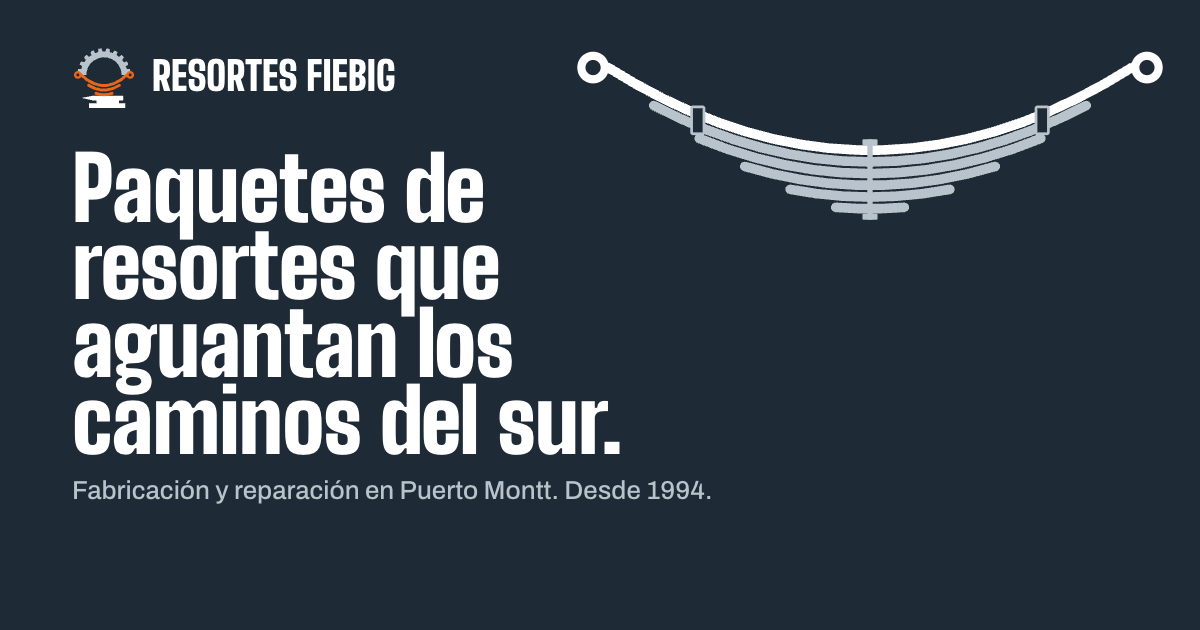
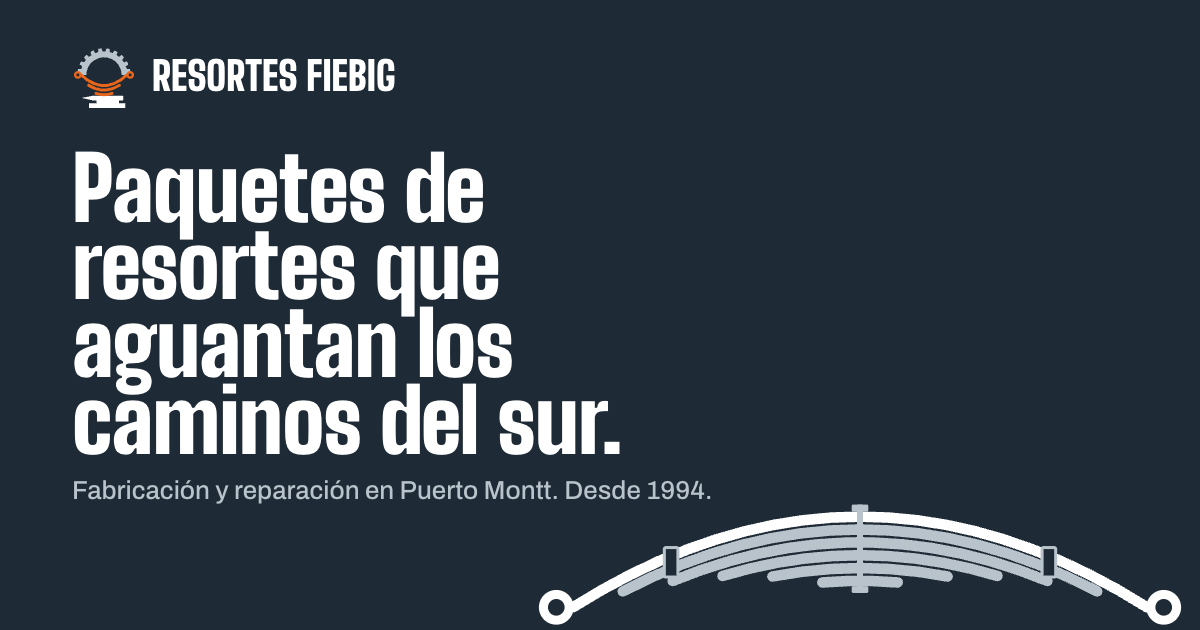
feat(spring): vuelve a la orientación original, arco hacia arriba y ojos abajo
Deshace el giro del paquete en hero, diagrama y og.png; el logo nuevo
queda igual. Resorte del hero otra vez a todo el ancho.

Changed region(s): [[0.4317, 0.7841, 0.9867, 0.9952], [0.4625, 0.0905, 0.9867, 0.3619]]

diff --git a/index.html b/index.html
@@ -166,32 +166,32 @@
             <!-- spring:hero:start -->
             <svg
               class="spring"
-              viewBox="0 0 900 270"
+              viewBox="0 0 900 190"
               preserveAspectRatio="xMidYMax meet"
               data-animate="hero"
               aria-hidden="true"
               focusable="false"
             >
               <g class="spring__leaves">
-                <path class="spring__leaf spring__leaf--main" data-leaf="0" d="M70.0 40.0 Q450 280.0 830.0 40.0" />
-                <path class="spring__leaf" data-leaf="1" d="M136.0 95.1 Q450 258.9 764.0 95.1" />
-                <path class="spring__leaf" data-leaf="2" d="M202.0 142.9 Q450 245.1 698.0 142.9" />
-                <path class="spring__leaf" data-leaf="3" d="M268.0 183.5 Q450 238.5 632.0 183.5" />
-                <path class="spring__leaf" data-leaf="4" d="M334.0 216.8 Q450 239.2 566.0 216.8" />
-                <path class="spring__leaf" data-leaf="5" d="M400.0 242.9 Q450 247.1 500.0 242.9" />
+                <path class="spring__leaf spring__leaf--main" data-leaf="0" d="M70.0 150.0 Q450 -90.0 830.0 150.0" />
+                <path class="spring__leaf" data-leaf="1" d="M136.0 128.9 Q450 -34.9 764.0 128.9" />
+                <path class="spring__leaf" data-leaf="2" d="M202.0 115.1 Q450 12.9 698.0 115.1" />
+                <path class="spring__leaf" data-leaf="3" d="M268.0 108.5 Q450 53.5 632.0 108.5" />
+                <path class="spring__leaf" data-leaf="4" d="M334.0 109.2 Q450 86.8 566.0 109.2" />
+                <path class="spring__leaf" data-leaf="5" d="M400.0 117.1 Q450 112.9 500.0 117.1" />
               </g>
               <g class="spring__eyes">
-                <circle class="spring__eye" cx="48" cy="40" r="17" />
-                <circle class="spring__eye" cx="852" cy="40" r="17" />
+                <circle class="spring__eye" cx="48" cy="150" r="17" />
+                <circle class="spring__eye" cx="852" cy="150" r="17" />
               </g>
               <g class="spring__bolt-group">
-                <rect class="spring__bolt" x="446" y="144" width="8" height="117" rx="2" data-bolt="shaft" />
-                <rect class="spring__bolt" x="439" y="144" width="22" height="9" rx="2" data-bolt="head" />
-                <rect class="spring__bolt" x="439" y="252" width="22" height="9" rx="2" data-bolt="nut" />
+                <rect class="spring__bolt" x="446" y="14" width="8" height="117" rx="2" data-bolt="shaft" />
+                <rect class="spring__bolt" x="439" y="14" width="22" height="9" rx="2" data-bolt="head" />
+                <rect class="spring__bolt" x="439" y="122" width="22" height="9" rx="2" data-bolt="nut" />
               </g>
               <g class="spring__clips">
-                <rect class="spring__clip" x="191" y="97.1" width="18" height="39" rx="2" data-clip="200" />
-                <rect class="spring__clip" x="691" y="97.1" width="18" height="39" rx="2" data-clip="700" />
+                <rect class="spring__clip" x="191" y="70.9" width="18" height="39" rx="2" data-clip="200" />
+                <rect class="spring__clip" x="691" y="70.9" width="18" height="39" rx="2" data-clip="700" />
               </g>
             </svg>
             <!-- spring:hero:end -->
@@ -211,55 +211,55 @@
 
           <figure class="diagram">
             <!-- spring:diagram:start -->
-            <svg class="spring spring--diagram" viewBox="0 -45 900 315" role="img" aria-labelledby="diagram-title">
+            <svg class="spring spring--diagram" viewBox="0 -40 900 280" role="img" aria-labelledby="diagram-title">
               <title id="diagram-title">
                 Partes de un paquete de resortes: hoja madre, ojos, hojas graduadas, perno centro y abrazaderas
               </title>
               <g class="spring__leaves">
-                <path class="spring__leaf spring__leaf--main" data-leaf="0" d="M70.0 40.0 Q450 280.0 830.0 40.0" />
-                <path class="spring__leaf" data-leaf="1" d="M136.0 95.1 Q450 258.9 764.0 95.1" />
-                <path class="spring__leaf" data-leaf="2" d="M202.0 142.9 Q450 245.1 698.0 142.9" />
-                <path class="spring__leaf" data-leaf="3" d="M268.0 183.5 Q450 238.5 632.0 183.5" />
-                <path class="spring__leaf" data-leaf="4" d="M334.0 216.8 Q450 239.2 566.0 216.8" />
-                <path class="spring__leaf" data-leaf="5" d="M400.0 242.9 Q450 247.1 500.0 242.9" />
+                <path class="spring__leaf spring__leaf--main" data-leaf="0" d="M70.0 150.0 Q450 -90.0 830.0 150.0" />
+                <path class="spring__leaf" data-leaf="1" d="M136.0 128.9 Q450 -34.9 764.0 128.9" />
+                <path class="spring__leaf" data-leaf="2" d="M202.0 115.1 Q450 12.9 698.0 115.1" />
+                <path class="spring__leaf" data-leaf="3" d="M268.0 108.5 Q450 53.5 632.0 108.5" />
+                <path class="spring__leaf" data-leaf="4" d="M334.0 109.2 Q450 86.8 566.0 109.2" />
+                <path class="spring__leaf" data-leaf="5" d="M400.0 117.1 Q450 112.9 500.0 117.1" />
               </g>
               <g class="spring__eyes">
-                <circle class="spring__eye" cx="48" cy="40" r="17" />
-                <circle class="spring__eye" cx="852" cy="40" r="17" />
+                <circle class="spring__eye" cx="48" cy="150" r="17" />
+                <circle class="spring__eye" cx="852" cy="150" r="17" />
               </g>
               <g class="spring__bolt-group">
-                <rect class="spring__bolt" x="446" y="144" width="8" height="117" rx="2" data-bolt="shaft" />
-                <rect class="spring__bolt" x="439" y="144" width="22" height="9" rx="2" data-bolt="head" />
-                <rect class="spring__bolt" x="439" y="252" width="22" height="9" rx="2" data-bolt="nut" />
+                <rect class="spring__bolt" x="446" y="14" width="8" height="117" rx="2" data-bolt="shaft" />
+                <rect class="spring__bolt" x="439" y="14" width="22" height="9" rx="2" data-bolt="head" />
+                <rect class="spring__bolt" x="439" y="122" width="22" height="9" rx="2" data-bolt="nut" />
               </g>
               <g class="spring__clips">
-                <rect class="spring__clip" x="191" y="97.1" width="18" height="39" rx="2" data-clip="200" />
-                <rect class="spring__clip" x="691" y="97.1" width="18" height="39" rx="2" data-clip="700" />
+                <rect class="spring__clip" x="191" y="70.9" width="18" height="39" rx="2" data-clip="200" />
+                <rect class="spring__clip" x="691" y="70.9" width="18" height="39" rx="2" data-clip="700" />
               </g>
               <g class="spring__callout">
-                <line x1="300" y1="134.3" x2="300" y2="58" />
-                <circle cx="300" cy="58" r="15" />
-                <text x="300" y="58" dy="0.36em" text-anchor="middle">1</text>
+                <line x1="300" y1="41.7" x2="300" y2="-12" />
+                <circle cx="300" cy="-12" r="15" />
+                <text x="300" y="-12" dy="0.36em" text-anchor="middle">1</text>
               </g>
               <g class="spring__callout">
-                <line x1="48" y1="17" x2="48" y2="-22" />
-                <circle cx="48" cy="-22" r="15" />
-                <text x="48" y="-22" dy="0.36em" text-anchor="middle">2</text>
+                <line x1="48" y1="173" x2="48" y2="215" />
+                <circle cx="48" cy="215" r="15" />
+                <text x="48" y="215" dy="0.36em" text-anchor="middle">2</text>
               </g>
               <g class="spring__callout">
-                <line x1="636" y1="183.5" x2="690" y2="250" />
-                <circle cx="690" cy="250" r="15" />
-                <text x="690" y="250" dy="0.36em" text-anchor="middle">3</text>
+                <line x1="636" y1="108.5" x2="690" y2="200" />
+                <circle cx="690" cy="200" r="15" />
+                <text x="690" y="200" dy="0.36em" text-anchor="middle">3</text>
               </g>
               <g class="spring__callout">
-                <line x1="450" y1="142" x2="450" y2="78" />
-                <circle cx="450" cy="78" r="15" />
-                <text x="450" y="78" dy="0.36em" text-anchor="middle">4</text>
+                <line x1="450" y1="12" x2="450" y2="-12" />
+                <circle cx="450" cy="-12" r="15" />
+                <text x="450" y="-12" dy="0.36em" text-anchor="middle">4</text>
               </g>
               <g class="spring__callout">
-                <line x1="711" y1="116.6" x2="800" y2="200" />
-                <circle cx="800" cy="200" r="15" />
-                <text x="800" y="200" dy="0.36em" text-anchor="middle">5</text>
+                <line x1="711" y1="90.4" x2="800" y2="185" />
+                <circle cx="800" cy="185" r="15" />
+                <text x="800" y="185" dy="0.36em" text-anchor="middle">5</text>
               </g>
             </svg>
             <!-- spring:diagram:end -->

diff --git a/js/spring.js b/js/spring.js
@@ -1,20 +1,15 @@
 // Parametric leaf-spring pack. Shared by the browser (hero animation) and by
 // scripts/build-spring.js (static markup baked into index.html).
-//
-// Drawn as mounted on a truck and as in the original Fiebig logo: eyes up at
-// the ends, the main leaf on top hanging down to the centre, and the shorter
-// leaves stacked below it towards the axle seat.
 (function (root) {
   const WIDTH = 900;
-  const HEIGHT = 270;
   const CENTER = WIDTH / 2;
-  const EYE_Y = 40; // y of the main leaf ends (eyes), top of the pack
+  const EYE_Y = 150; // y of the main leaf ends (eyes)
   const MAIN_X0 = 70; // main leaf start x
   const LEAVES = 6;
   const STEP_X = 66; // each leaf is shorter by this on each side
   const STEP_Y = 17; // vertical stacking distance
   const THICKNESS = 14;
-  const REST_SAG = 120; // eye-to-vertex drop at rest
+  const REST_SAG = 120; // vertex-to-eye height at rest
   const CLIP_X = [200, WIDTH - 200];
   const EYE_R = 17;
 
@@ -22,9 +17,9 @@
     const mainHalf = CENTER - MAIN_X0;
     const half = mainHalf - STEP_X * i;
     const k = sag / (mainHalf * mainHalf);
-    const vertexY = EYE_Y + sag + STEP_Y * i;
-    const endY = vertexY - k * half * half;
-    const ctrlY = vertexY + k * half * half;
+    const vertexY = EYE_Y - sag + STEP_Y * i;
+    const endY = vertexY + k * half * half;
+    const ctrlY = vertexY - k * half * half;
 
     return { x0: CENTER - half, x1: CENTER + half, endY, ctrlY, vertexY, k };
   }
@@ -32,7 +27,7 @@
   function leafY(i, sag, x) {
     const g = leafGeometry(i, sag);
 
-    return g.vertexY - g.k * (x - CENTER) * (x - CENTER);
+    return g.vertexY + g.k * (x - CENTER) * (x - CENTER);
   }
 
   function leafPath(i, sag) {
@@ -69,14 +64,12 @@
     return { x: CENTER - 4, y: top, width: 8, height: bottom - top };
   }
 
-  // Bolt head sits on the main leaf, at the top of the stack.
   function boltHeadRect(sag) {
     const top = leafGeometry(0, sag).vertexY - THICKNESS / 2 - 9;
 
     return { x: CENTER - 11, y: top, width: 22, height: 9 };
   }
 
-  // Nut closes the stack under the shortest leaf.
   function boltNutRect(sag) {
     const bottom = leafGeometry(LEAVES - 1, sag).vertexY + THICKNESS / 2 + 9;
 
@@ -85,7 +78,6 @@
 
   root.SpringGeometry = {
     WIDTH,
-    HEIGHT,
     CENTER,
     EYE_Y,
     MAIN_X0,

diff --git a/scripts/build-spring.js b/scripts/build-spring.js
@@ -47,20 +47,19 @@ const inject = process.argv.includes("--inject");
 if (inject) {
   // handled below
 } else if (variant === "hero") {
-  console.log(`<svg class="spring" viewBox="0 0 ${S.WIDTH} ${S.HEIGHT}" preserveAspectRatio="xMidYMax meet" data-animate="hero" aria-hidden="true" focusable="false">
+  console.log(`<svg class="spring" viewBox="0 0 ${S.WIDTH} 190" preserveAspectRatio="xMidYMax meet" data-animate="hero" aria-hidden="true" focusable="false">
 ${body}
 </svg>`);
 } else {
-  // Callouts: anchor (ax, ay) on the part, bubble (bx, by) in clear space.
-  // Eyes up, main leaf on top, shorter leaves stacked below it.
+  // Callouts: [number, label anchor x/y on the part, bubble x/y]
   const g3 = S.leafGeometry(3, sag);
   const clip = S.clipRect(S.CLIP_X[1], sag);
   const callouts = [
-    { n: 1, ax: 300, ay: S.leafY(0, sag, 300) - 7, bx: 300, by: 58 },
-    { n: 2, ax: S.MAIN_X0 - 22, ay: S.EYE_Y - S.EYE_R - 6, bx: S.MAIN_X0 - 22, by: -22 },
-    { n: 3, ax: g3.x1 + 4, ay: g3.endY, bx: 690, by: 250 },
-    { n: 4, ax: S.CENTER, ay: S.boltHeadRect(sag).y - 2, bx: S.CENTER, by: 78 },
-    { n: 5, ax: clip.x + clip.width + 2, ay: clip.y + clip.height / 2, bx: 800, by: 200 },
+    { n: 1, ax: 300, ay: S.leafY(0, sag, 300) - 7, bx: 300, by: -12 },
+    { n: 2, ax: S.MAIN_X0 - 22, ay: S.EYE_Y + S.EYE_R + 6, bx: S.MAIN_X0 - 22, by: 215 },
+    { n: 3, ax: g3.x1 + 4, ay: g3.endY, bx: 690, by: 200 },
+    { n: 4, ax: S.CENTER, ay: S.boltHeadRect(sag).y - 2, bx: S.CENTER, by: -12 },
+    { n: 5, ax: clip.x + clip.width + 2, ay: clip.y + clip.height / 2, bx: 800, by: 185 },
   ];
   const marks = callouts
     .map(
@@ -72,7 +71,7 @@ ${body}
     )
     .join("\n");
 
-  console.log(`<svg class="spring spring--diagram" viewBox="0 -45 ${S.WIDTH} 315" role="img" aria-labelledby="diagram-title">
+  console.log(`<svg class="spring spring--diagram" viewBox="0 -40 ${S.WIDTH} 280" role="img" aria-labelledby="diagram-title">
   <title id="diagram-title">Partes de un paquete de resortes: hoja madre, ojos, hojas graduadas, perno centro y abrazaderas</title>
 ${body}
 ${marks}

diff --git a/css/styles.css b/css/styles.css
@@ -443,15 +443,13 @@ h3 {
 }
 
 .hero__art {
-  margin-top: clamp(1.5rem, 4vw, 3rem);
+  margin-top: clamp(2rem, 5vw, 4rem);
 }
 
 .hero__art .spring {
   width: 100%;
-  max-width: 56rem;
   height: auto;
-  margin-inline: auto;
-  margin-bottom: -0.25rem;
+  margin-bottom: -0.5rem;
 }
 
 @media (max-width: 40rem) {
